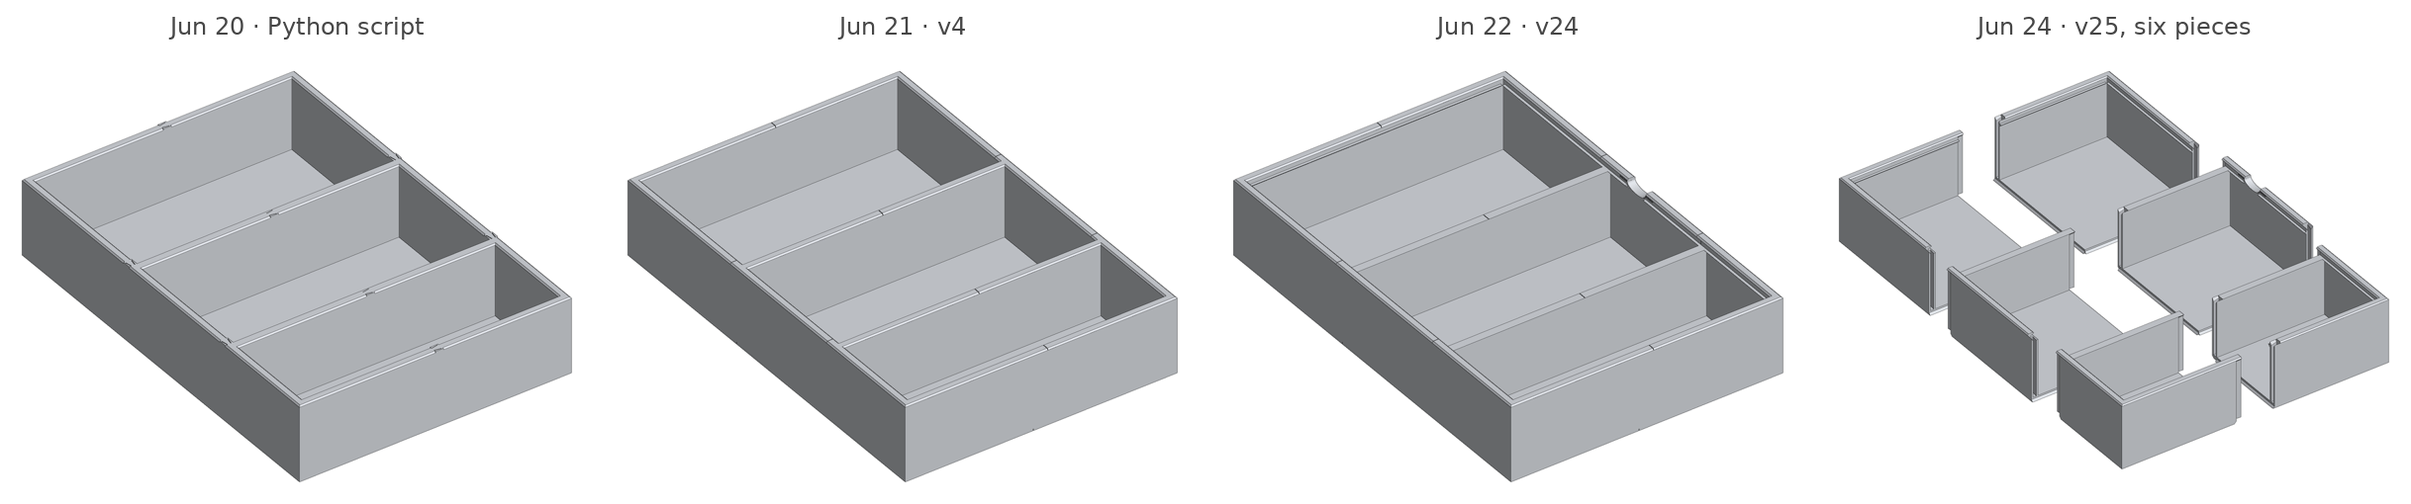
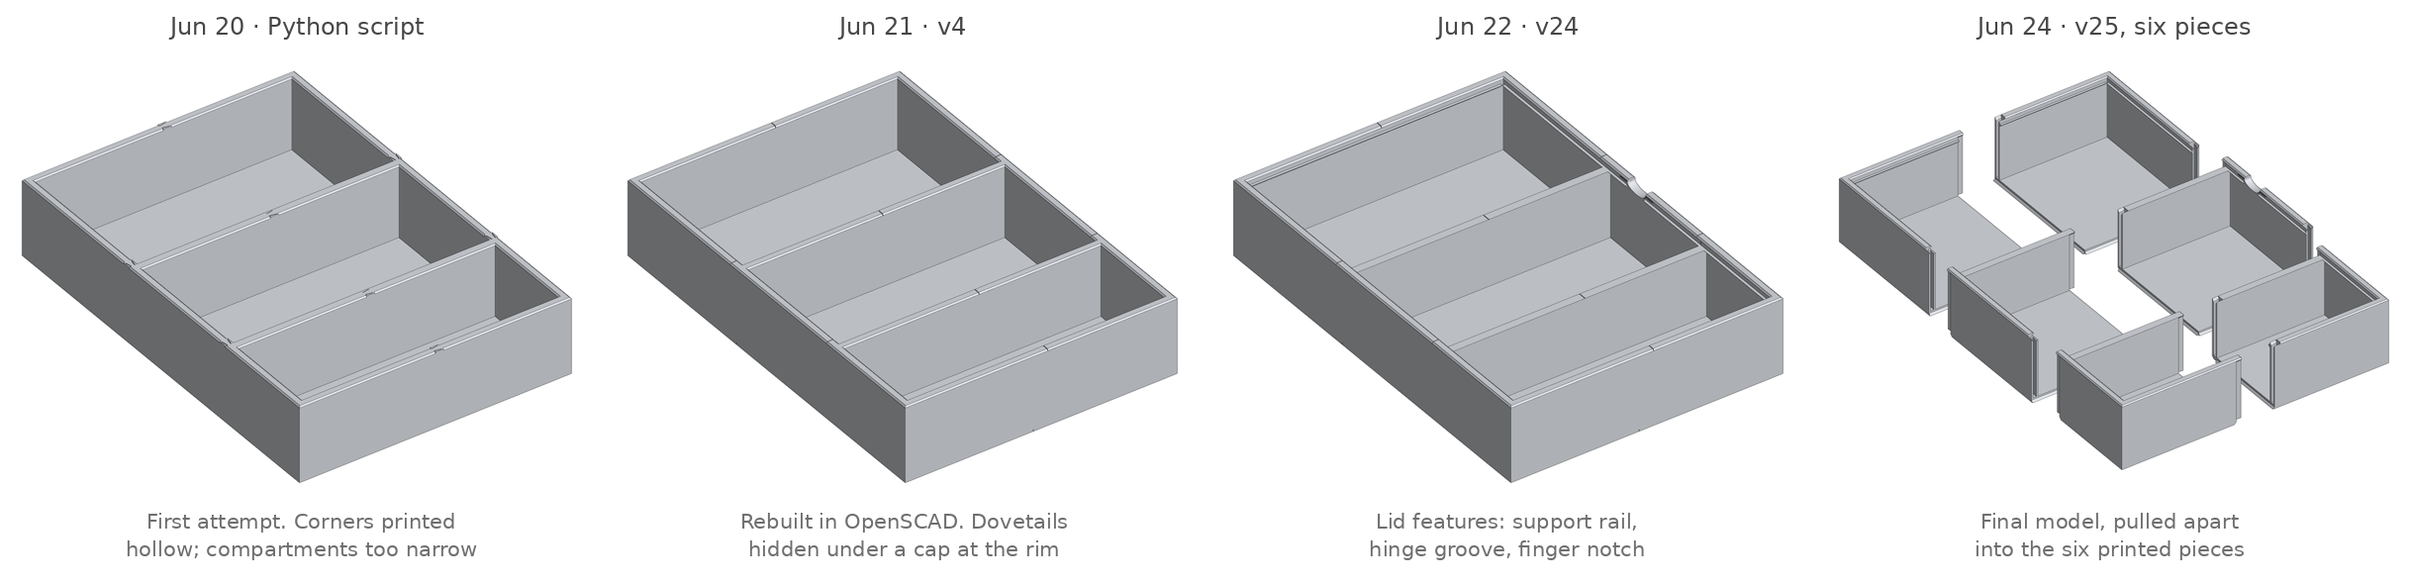
README and build log: apply owner's story feedback, add detail renders
Rewrite the intro and Approach in the owner's words, reorder What it
does, rename How it works to How it was made, caption the whole-view
strip, add a detail-view strip and a Challenges table, and fix the
hero render angle so no piece looks hollow.

Claude-Session: https://claude.ai/code/session_012aPeykNKcp8Uh2JbhcbXh4

diff --git a/tools/make_social_preview.py b/tools/make_social_preview.py
@@ -3,7 +3,7 @@
 pieces of the model on the left, the printed box in use on the right, under a one-line title. Needs Pillow; uses DejaVu
 Sans if installed, else Pillow's default font.
 
-  python3 tools/render_stl.py render.png stl/ --px 1400 --elev 62 --azim 8 --explode 14 \\
+  python3 tools/render_stl.py render.png stl/ --px 1400 --elev 62 --azim -12 --explode 14 \\
       --colors '#c79a4c:#72bb7e' '#c4524f:#e2895c' '#4f9a62:#3a7fa6' \\
                '#3c5aa6:#b84c9c' '#2f5aa0:#8d50a3' '#c24c50:#e2895c'
   python3 tools/make_social_preview.py render.png photos/final-layout.jpg docs/social-preview.png

diff --git a/README.md b/README.md
@@ -8,7 +8,7 @@
 
 **A 3D-printed 3 compartment box for disposable cutlery, designed in OpenSCAD with Claude**
 
-[What it does](#what-it-does) · [How it works](#how-it-works) · [Build log](#build-log)
+[What it does](#what-it-does) · [How it was made](#how-it-was-made) · [Build log](#build-log)
 
 ![Status: shipped](https://img.shields.io/badge/status-shipped-brightgreen)
 ![Last commit](https://img.shields.io/github/last-commit/meirmsn/cutlery-box)
@@ -21,7 +21,7 @@
 
 - [Approach](#approach)
 - [What it does](#what-it-does)
-- [How it works](#how-it-works)
+- [How it was made](#how-it-was-made)
 - [Build log](#build-log)
 - [Known limitations](#known-limitations)
 - [Run it](#run-it)
@@ -32,13 +32,13 @@
 
 A three-compartment box for disposable knives, forks and spoons, designed in OpenSCAD with Claude and printed in six pieces on a small hobby printer.
 
-Disposable cutlery usually lives in cardboard boxes that fall apart or plastic ones that crack into sharp pieces, none of them can be washed, and the organizers I found for real cutlery don't hold enough. The box is 303 × 208 × 58 mm, too big for the 120 mm printer it was made on, so it prints as six pieces that slide together on dovetails hidden inside the walls. From outside it reads as one box with straight seams and a chamfered rim that's comfortable to grab. Six days of design, several rounds of test prints, a Dremel and some glue got it from idea to the kitchen counter, where it's been in use since July 2026. I printed a second one for my brother, who'd been looking for one.
+Disposable cutlery usually comes in cardboard or thin plastic boxes that are disposable themselves: hard to keep sanitized, and not made to last. The organizers I found are designed for real cutlery: they don't hold enough, and none have this flat, side-by-side layout. When my son got a kids' 3D printer, I used its downtime to try a project that had been on my mind for a while. The box had to hold all three types side by side, so it came out far bigger than the printer's 120 mm build area (303 × 208 × 58 mm). It prints as six pieces that slide together on dovetails hidden inside the walls. From outside it reads as one box with nearly straight seams (you can still see and feel them) and a chamfered rim that's comfortable to grab. Six days of design, several rounds of test prints, a Dremel and some glue got it from idea to the kitchen counter, where it's been in use since July 2026. I printed a second one for my brother, who'd been looking for one.
 
 ![Left: a render of the six printed pieces, pulled apart, roughly in their print colours. Right: the finished box on the counter, with spoons and forks on edge in two rows and knives loosely packed in the middle](docs/social-preview.png)
 
 ## Approach
 
-I designed this in June 2026 in plain chat sessions with Claude: no text-to-CAD tools, no CAD plugins, no custom workflow. It was a test of how far raw Claude gets on a physical design. It is not the detailed method used in the [devshop](https://github.com/meirmsn/abra-kadabra). Claude wrote the geometry, first as a Python script that wrote meshes directly and then as a parametric OpenSCAD model, and checked the meshes with its own scripts. It couldn't run OpenSCAD itself, so I rendered the parts, printed them on my son's printer (an AOSEED X-MAKER JOY AI+), photographed what went wrong, and made the design calls. Human in the loop: @meirmsn; robot hands for packaging this repo: @meirmsn-agent.
+I designed this in June 2026 in plain chat sessions with Claude: no text-to-CAD tools, no CAD plugins, no custom workflow. It was a test of how far raw Claude gets on a physical design. It is not the detailed method used in the [devshop](https://github.com/meirmsn/abra-kadabra). I had a clear picture of the box I wanted, so I wasn't asking Claude for ideas: I made the design calls and directed it. Claude wrote the geometry, first as a Python script that wrote meshes directly and then as a parametric OpenSCAD model, and checked the meshes with its own scripts. It couldn't run OpenSCAD itself, so I rendered the parts, checked them in the OpenSCAD viewer and sent screenshots back with feedback, sometimes with the problem circled in red, until the model looked the way I'd pictured it. Then I printed the parts on my son's printer (an AOSEED X-MAKER JOY AI+), photographed what went wrong, and went back to Claude for the next round, until it worked. Without Claude I'd have had to get back up to speed on a CAD program I hadn't used in years, which would have taken more time than I had; with it, I could iterate in minutes.
 
 What the process taught: a model that looks right on screen is not yet a part that prints. Every real problem showed up on a printed test piece, and some only showed up once the box was in daily use.
 
@@ -47,13 +47,14 @@ What the process taught: a model that looks right on screen is not yet a part th
 ## What it does
 
 - Holds 184 pieces of our usual disposable cutlery (up to about 190 mm long): 48 spoons, 56 forks and 80 knives, one type per compartment
-- Prints on a small printer with a 120 × 120 × 120 mm build area, with little support material (the throwaway scaffolding printers add under overhangs)
-- Assembles into one box with no screws: the joints are hidden inside the walls, leaving only straight seam lines
-- Lets you change the compartment sizes and height in one file to fit other cutlery
+- Assembles into one box with no screws: the joints are hidden inside the walls, leaving only nearly straight seam lines
+- Lets you choose how to organize it. The three compartments have different widths and the cutlery has different shapes (a spoon has a big head, a knife is long and slender), so you can decide which type goes where, give the widest compartment to the type you use most, and stack them face up in columns (neat but tippy), pack them on edge like the packaging, or just drop them in loose
+- Can be resized: the compartment widths and height are parameters in one file, so in theory you can fit other cutlery or split the width differently (I haven't tried)
+- Can be printed on a printer as small as 120 × 120 × 120 mm, with little support material (the throwaway scaffolding printers add under overhangs)
 
 <p align="right"><small><a href="#readme-top">back to top</a></small></p>
 
-## How it works
+## How it was made
 
 - **Cut from one solid.** The OpenSCAD model builds the whole box, rim chamfer included, then cuts it apart with dovetail-shaped blocks. The cuts that split the box are the joints, so the chamfer (the small bevel along the top edge) runs unbroken across every seam.
 - **Hidden dovetails behind straight edges.** Vertical sliding dovetails sit inside the 6 mm walls, and a cap covers each joint at the top so the rim shows one straight seam line. Pieces drop in from above.
@@ -80,13 +81,22 @@ What the process taught: a model that looks right on screen is not yet a part th
 
 </details>
 
-![Renders of the model on June 20, 21, 22 and 24: the overall shape barely changes](docs/img/renders/progression.png)
-![Close-up of one rim seam in the same four versions](docs/img/renders/seam-top-progression.png)
-*Six days of versions, rendered from the saved files. The overall shape barely changed; the work happened at the joints and the rim. Close up (second row), the dovetail's outline on top of the rim gives way to a cap and one straight seam line.*
+**Whole view**
 
-| Joint test coupons, one to four dots | A longer knife from another brand: it touches both end walls |
+![Renders of the model on June 20, 21, 22 and 24, each with a one-line note on what changed](docs/img/renders/progression.png)
+*Six days of versions, rendered from the saved files. The overall shape barely changed; the work happened at the joints and the rim.*
+
+**Detail view**
+
+![Four close-ups: the rim seam in the Python version and in v4, the hinge corner of v25 with an inset of the groove, and the clip wall of v25](docs/img/renders/details.png)
+*Rim seam: in the Python version the dovetail reaches the top of the rim; the two dark slits are the gaps along its slanted sides, and the chamfer is cut through. From v4 a cap covers it, leaving one straight line. Hinge corner: the support rail along the short wall is where the lid would rest. The hinge groove in the long wall is a half-round channel behind an angled opening (inset, seen where the piece is cut), meant to let the lid swing up and also lift right out. Clip wall: the divider is lowered and flat, without the chamfer, so its top is a column for the lid to rest on. The finger notch lets a thumb reach under the lid's edge, and the two small clips beside it are meant to hold the lid shut until it's lifted there.*
+
+**Challenges**
+
+| Joint fit | A longer knife |
 |---|---|
 | ![Four dovetail test coupons marked with one to four dots](photos/process/IMG_8089.jpg) | ![A long knife lying end to end in a compartment, touching both walls](photos/knife-too-long.jpg) |
+| The first dovetails slid in too easily, and tighter ones jammed. On one piece, two joints that were identical in the model fit differently, so the variation came from the printer. Claude and I printed four test coupons at different clearances to find a size that works despite it. The model uses the 2-dot fit; glue, not sanding, did the rest. | A longer knife from another brand touches both end walls of a compartment. Angled slightly in the widest compartment, it fits. |
 
 **[Read the full build log →](docs/BUILD_LOG.md)**: the planning, every test print, what broke, what it taught, and what I'd change next time, with photos and renders.
 
@@ -97,7 +107,7 @@ What the process taught: a model that looks right on screen is not yet a part th
 - The joint fit depends on the printer and varied between prints even at the same settings. Expect to print the test coupons first, and possibly to sand or glue.
 - The pieces use up to 118.5 mm of a 120 mm print area. Check your printer's real usable area, and note that widening a compartment will push its pieces past it.
 - There's no lid. The rim has a hinge groove, a support rail and clips for a 2 mm clear sheet (196.5 × 290 mm), but I didn't find a food-safe sheet with the right size and finish at a reasonable price and so far haven't needed one. [Suggestions welcome](#feedback).
-- The interior is 196 mm long. Our usual disposable cutlery fits, but a longer knife from another brand didn't.
+- The interior is 196 mm long. Our usual disposable cutlery fits, but a longer knife from another brand fits only angled in the widest compartment.
 - Compartment widths were chosen for three columns per compartment, not for packing on edge. The split that works for us is in the build log; yours may differ.
 
 <p align="right"><small><a href="#readme-top">back to top</a></small></p>

diff --git a/.claude/CLAUDE.md b/.claude/CLAUDE.md
@@ -24,7 +24,7 @@ A three-compartment box for disposable knives, forks and spoons. It was designed
 ## Working rules (from the owner)
 
 - **Packaging only:** no changes to the model or product behaviour unless he asks.
-- **README structure is fixed:** title; status badges (shipped, last commit, license; no "in daily use" or date line, at his request); one sentence; short paragraph; photo; Approach; What it does (3–6 visitor outcomes, no jargon); How it works (3–6 bullets, including tried-and-dropped); Build log (dated bullets plus a preview linking to `docs/BUILD_LOG.md`); Known limitations (visitor-facing only); Run it; Feedback ("Suggestions and critiques welcome — open an issue or a discussion."); License (CC BY 4.0). It mirrors his other repos, e.g. github.com/meirmsn/song-bass-explainer.
+- **README structure is fixed:** title; status badges (shipped, last commit, license; no "in daily use" or date line, at his request); one sentence; short paragraph; photo; Approach; What it does (3–6 visitor outcomes, no jargon); How it was made (3–6 bullets, including tried-and-dropped; renamed from "How it works" at his request, since the bullets are about how it was designed and built); Build log (dated bullets, a whole-view and a detail-view render strip, a Challenges table, and a link to `docs/BUILD_LOG.md`); Known limitations (visitor-facing only); Run it; Feedback ("Suggestions and critiques welcome — open an issue or a discussion."); License (CC BY 4.0). It mirrors his other repos, e.g. github.com/meirmsn/song-bass-explainer.
 - **Build log style:** plain, learning-oriented, in order (motivation and plan, then doing, iteration, done, insights, next version).
 - **Never estimate a number.** Ask him. Use his phrasing, lightly polished, when he provides text.
 - **Review before every PR:** an adversarial pass that cuts anything a skeptic would call fluff, wrong or self-flattering. Best done by a separate agent that checks claims against `archive/notes/`, the scad parameters and the photos.
@@ -38,7 +38,9 @@ A three-compartment box for disposable knives, forks and spoons. It was designed
 ## Facts from the owner that are not in the archive notes
 
 - **Why:** disposable cutlery comes in cardboard boxes that fall apart or plastic ones that crack into sharp pieces, and none can be washed. Organizers for real cutlery hold too few pieces and don't lock. His taped DIY dividers were flimsy and unhygienic. He never had time to design it in CAD; with Claude it was fast and fun. His brother had been looking for one too, so he printed a second (`photos/brother-box.jpg`, in orange/yellow/pale green; an empty-box alternative was offered but not committed).
-- **Sizing:** measured cutlery plus published sizes. A particularly long knife from another brand doesn't fit (it touches both ends); their usual brand fits.
+- **Sizing:** measured cutlery plus published sizes. A particularly long knife from another brand touches both ends of a compartment; angled slightly in the widest compartment, it fits. Their usual brand fits.
+- **Wording he asked for:** the store boxes are disposable themselves and hard to keep sanitized (don't say they can't be washed). The seams are *nearly* straight: you can see and feel them. He made the design calls and directed Claude rather than asking it for ideas; he checked renders in the OpenSCAD viewer and sent screenshots back, sometimes circled in red. The project started when his son got the printer, in its downtime.
+- **Dovetail fit:** on one piece, two dovetails that were identical in the code fit differently, which is how he realised the printer varied; that led to the coupons. The dovetails were glued, not sanded.
 - **In use:** the designed layout, three face-up columns per compartment (knives narrowest, forks middle, spoons widest), held 36 spoons, 36 forks, 48 knives (120); he counted 48 knives in the box, though filling the columns was a pain (`photos/designed-layout.jpg`). The stacks were unstable even standing still and fell when the box was moved; knives stayed stacked only if placed with great care. He checked that three fit side by side on every printed part but never tried stacking until the box was built. An intermediate step swapped spoons and knives, still face up (`photos/finished-loaded.jpg`, no longer used in the docs but kept in `photos/` and the release zip). The final layout (`photos/final-layout.jpg`, retaken with the top rows pointing the same way), inspired by the packaging: forks (most used) on edge in two rows in the widest, 56; spoons (least used) on edge in two rows in the narrowest, 48; knives "loosely packed" in the middle, 80 (184 total, +53%). Knives are hard to stand on edge by hand but don't tangle and are easy to grab; reaching into the narrowest compartment for them was awkward, while spoons on edge are easy to grab there. Trade-offs: columns look nicer, and the layers alternate: the layers under the top one have their heads at the opposite end (all visible heads in the top layer point the same way), so fingers reaching into the top layer can touch the heads below; they don't mind much, mostly family use it.
 - **First test print:** `photos/process/first-print-knives.jpg` shows the June 20 knife-compartment slice fitting only two knives, as the build log says. He confirmed: two knives fit in that first test print, so the compartments were widened for three columns, and the finished box fits three across (`photos/designed-layout.jpg`). The build log's "Too narrow" paragraph already says this.
 - **Printing:** v25, as far as he remembers (the last version). From his print stats: slicer "fine", 0.16 mm layers (he first remembered 0.12; the stats win), no brim/raft, support set to "partial", 200 mm/s and 220 °C (defaults). Per piece: knife A 5 h 39 min / 68.4 g, knife B 5 h 36 / 65.2, spoon A 5 h 18 / 67.2, spoon B 5 h 35 / 64.4, fork A 5 h 5 / 59.4, fork B 5 h 5 / 57.0 (32 h 18 min, 381.6 g). Walls and infill: he thinks default 2 walls and 15%, maybe 3 and 20%; the build log says so with that hedge. Filament: iSANMATE PLA+ Rainbow colour-change, 1.75 mm. He thinks the 1-dot full-height tongue fitted best; the 2-dot coupon (0.15 mm) was picked. Measured in the STLs: the box tongue (knife_A) is 2.70 mm at the seam, 3.70 at the tip, 5.0 deep, identical to the 2-dot coupon and the 1-dot full-height tongue (the 2-dot full-height one is 6.0 deep). Nozzle: stock 0.4 mm (his answer, from AOSEED and reseller pages). Support: the slicer's "partial" setting added a tiny bit of support under each dovetail tongue (they start at z = 3 mm) for the tongue to build on and, he thinks, on one piece some under a joint cap; no photo. The docs now say "designed to print without supports" and expect a little. The printer is a kids' entry printer; describe its imprecision as observations, not as a fault, alongside the fact that the box came out reliable and good-looking (visitors ask where it's from).
@@ -79,5 +81,11 @@ Known minor mesh nits in `stl/`, left alone because the box printed fine:
 | Base joint | knife A/B | `--offsetB 10 --center 109 30 2 --width 34 --elev 8 --azim -70` |
 | Hinge wall | knife_A only | `--center 8 81 55 --width 24 --elev 15 --azim 70` |
 | Notch and clips | assembled box | `--center 205 151.5 52 --width 50 --elev 30 --azim 200` |
+| Detail: seam (Python, v4) | fork A/B + spoon A/B | `--center 104 183 54 --width 36 --elev 40 --azim -55 --px 900` (Python adds `--offsetB 104`) |
+| Detail: hinge corner | assembled box | `--center 9 9 50 --width 36 --elev 35 --azim 50 --px 900` |
+| Detail: groove inset | knife_A only | `--center 2.5 79.3 54.5 --width 11 --elev 15 --azim 70 --px 900 --aspect 1` |
+| Detail: clip wall | assembled box | `--center 198 160 48 --width 72 --elev 35 --azim 200 --px 900` |
+
+  `details.png` and the caption band under `progression.png` were laid out with a one-off Pillow script (titles in DejaVu Sans), not kept in `tools/`. The groove profile is only visible where knife_A is cut: on the assembled box the groove runs out at the corners.
 
   The Python-generator geometry comes from running `archive/scripts/build_box.py` in a scratch copy (it writes STLs next to itself) and passing `--offsetB 104`.

diff --git a/docs/BUILD_LOG.md b/docs/BUILD_LOG.md
@@ -10,9 +10,9 @@ How a box for disposable cutlery went from a chat to a six-piece print in daily 
 
 ## Why
 
-We use disposable cutlery from time to time, and it never had a good home. It comes in cardboard boxes that fall apart, or thin plastic boxes that crack into sharp pieces, and neither can be washed. Over the years I looked on Amazon and found organizers for real cutlery, but they hold too few pieces, don't lock or open too easily, and aren't made for a pile of disposable cutlery. My own fixes, a box with dividers made from plastic offcuts and tape, were flimsy and not very hygienic.
+We use disposable cutlery from time to time, and it never had a good home. It comes in cardboard boxes that fall apart, or thin plastic boxes that crack into sharp pieces: disposable themselves, hard to keep sanitized, and not made to last. Over the years I looked on Amazon and found organizers for real cutlery, but they hold too few pieces, don't lock or open too easily, and aren't made for a pile of disposable cutlery. My own fixes, a box with dividers made from plastic offcuts and tape, were flimsy and not very hygienic.
 
-I always thought this should exist, but never had the time to design it in CAD. My son has a small 3D printer, and in June 2026 I wanted to see how fast I could design and iterate on one with plain Claude, used in ordinary chat: no text-to-CAD tools, no CAD plugins and no special workflow. At the time I didn't know text-to-CAD tools existed. It turned out to be fast, fun, and it solved the problem.
+I always thought this should exist, but never had the time to design it in CAD. When my son got a kids' 3D printer, I used its downtime to try it: in June 2026 I wanted to see how fast I could design and iterate on one with plain Claude, used in ordinary chat: no text-to-CAD tools, no CAD plugins and no special workflow. At the time I didn't know text-to-CAD tools existed. It turned out to be fast, fun, and it solved the problem.
 
 ## The plan (June 19)
 
@@ -120,7 +120,7 @@ Then came the first trial pieces, with four problems. The annotations are from t
 
 ## Fitting the dovetails (June 23–24)
 
-This took the most rounds. The first joints slid in but wobbled and pulled back out. Making them tighter fixed one print and jammed the next: sometimes there was good friction and sometimes none, from prints that should have been identical.
+This took the most rounds. The first joints slid in but wobbled and pulled back out. Making them tighter fixed one print and jammed the next: sometimes there was good friction and sometimes none, from prints that should have been identical. On one piece, two dovetails fit differently, one tight and one loose. I checked the code with Claude and they were the same, so the difference came from the printer. That turned the question into: is there a clearance that works despite the printer's variation?
 
 <p align="center"><img src="../photos/process/IMG_8087.jpg" alt="A test joint between two short pieces" width="360"></p>
 
@@ -169,7 +169,7 @@ Still, with a little Dremel work and glue, it made a box we use regularly and th
 
 With all six pieces printed, they still didn't sit flush. High spots on the mating faces bumped into each other and kept the pieces from seating. A Dremel took those down.
 
-Even seated, the friction fit wasn't enough for a box that gets picked up and moved. Plastic glue on the joints made it one rigid unit that doesn't wobble at rest.
+Even seated, the friction fit wasn't enough for a box that gets picked up and moved. Plastic glue on the joints made it one rigid unit that doesn't wobble at rest. The dovetails themselves were glued, not sanded.
 
 ![Two trial pieces side by side](../photos/process/IMG_8103.jpg)
 
@@ -177,7 +177,7 @@ Even seated, the friction fit wasn't enough for a box that gets picked up and mo
 
 ## Living with it (July onward)
 
-**A knife that didn't fit.** Our usual brand fits well within the 196 mm interior. But one particularly long knife from another brand touched both ends. The sizing came from our own measurements plus published sizes, and the outlier wasn't covered.
+**A knife that barely fits.** Our usual brand fits well within the 196 mm interior. But one particularly long knife from another brand touched both ends. The sizing came from our own measurements plus published sizes, and the outlier wasn't covered. In the widest compartment it can turn slightly, and angled like that it fits.
 
 <p align="center"><img src="../photos/knife-too-long.jpg" alt="A longer knife touching both ends of a compartment" width="360"></p>
 
@@ -221,7 +221,7 @@ This split suits how we use it; other layouts are worth trying. Knives could als
 - **Change one variable at a time.** Freezing the socket and testing only the male side is what finally made progress on the joint.
 - **Measure the full range, not one sample.** One long knife from another brand was enough to miss.
 - **Use reveals what planning can't, so test the use early.** The layout that works (on edge, like the packaging), the capacity, and which compartment should hold which type only became clear once the box was on the counter.
-- **Plain Claude got a working design,** with a lot of human rendering, printing and judging in the loop. It couldn't run OpenSCAD or touch the prints: I rendered, printed and photographed, and it worked from my screenshots and its own diagrams.
+- **Plain Claude got a working design,** with a lot of human rendering, printing and judging in the loop. I had a clear picture of what I wanted and directed it rather than asking it for ideas. It couldn't run OpenSCAD or touch the prints: I rendered the parts, checked them in the OpenSCAD viewer, sent back screenshots (sometimes with the problem circled in red), printed and photographed, and it worked from those and its own diagrams. Without it I'd have had to relearn a CAD program I hadn't used in years; with it, each design change took minutes.
 
 ## Next version
 
